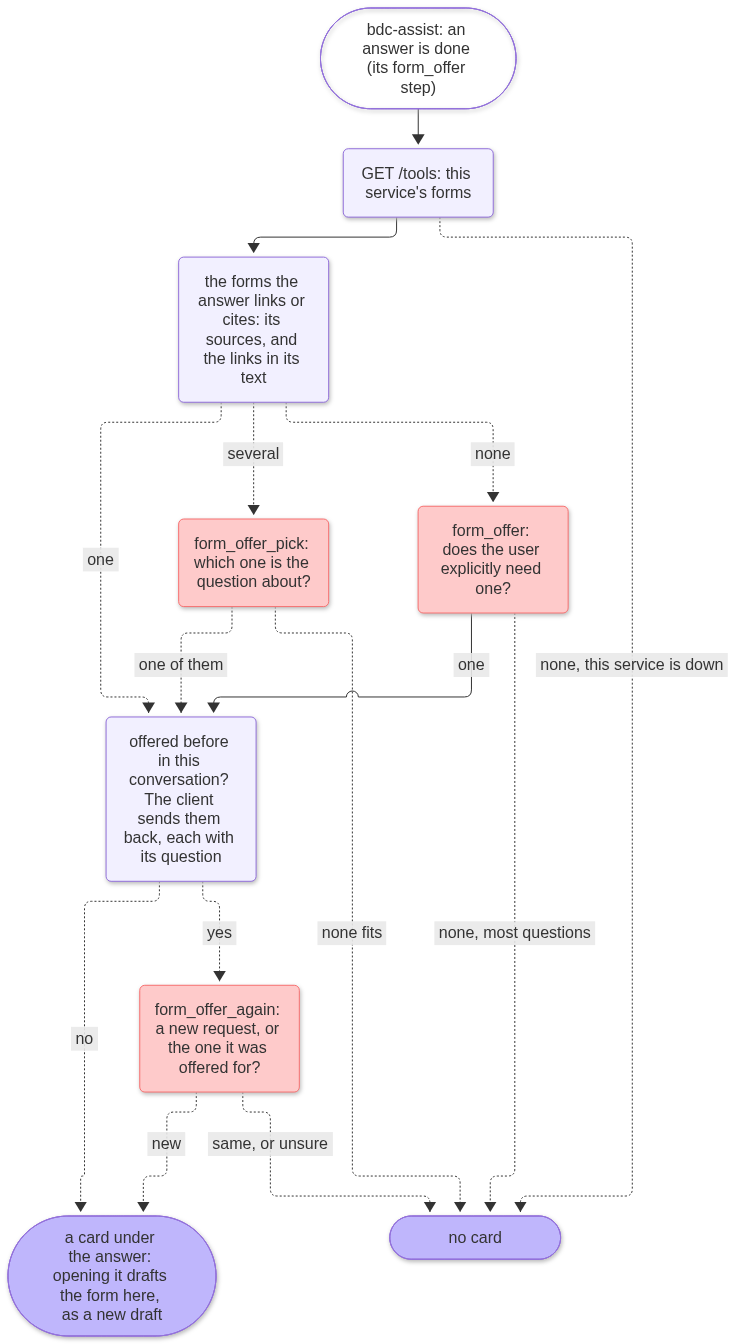
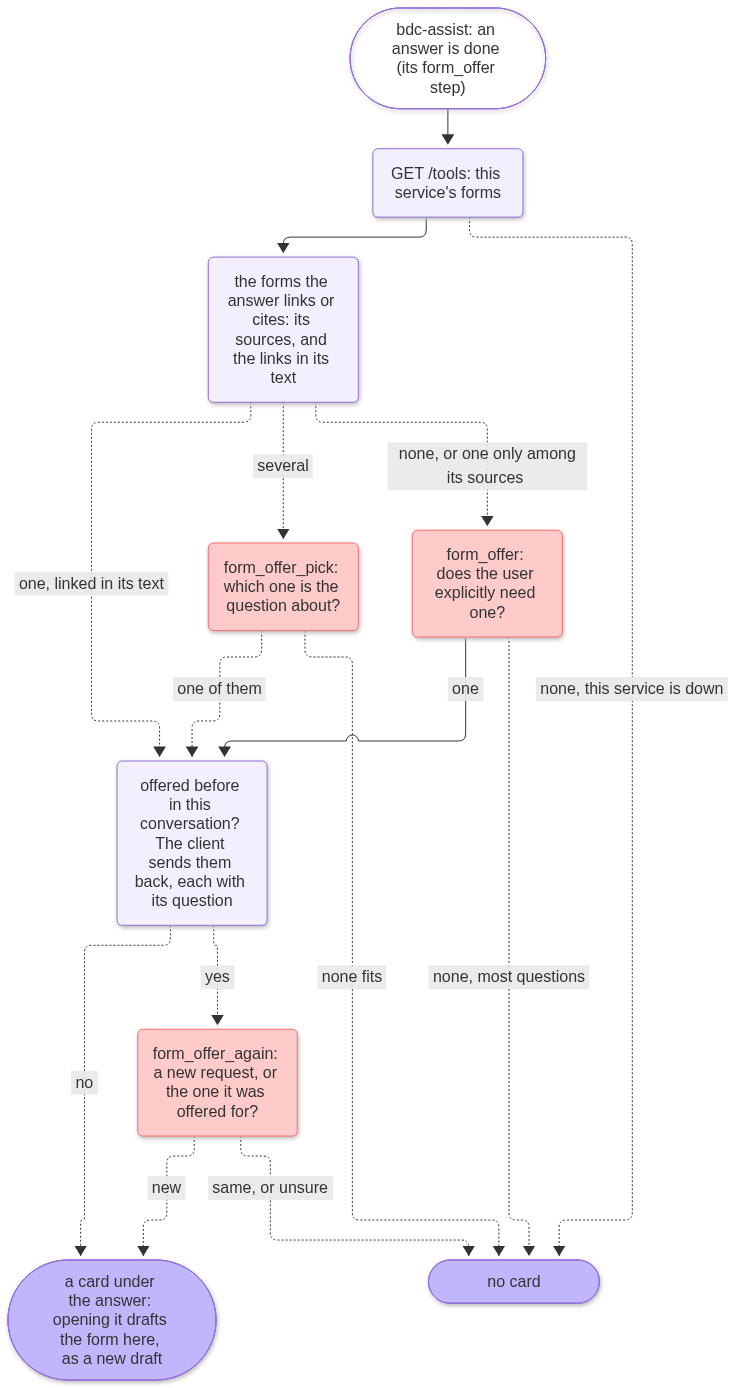
docs: form_offer diagram, a form only among the sources goes to the LLM

diff --git a/docs/form_offer.md b/docs/form_offer.md
@@ -30,9 +30,9 @@ graph TD;
 	start --> forms;
 	forms -. &nbsp;none, this service is down&nbsp; .-> none;
 	forms --> links;
-	links -. &nbsp;one&nbsp; .-> seen;
+	links -. &nbsp;one, linked in its text&nbsp; .-> seen;
 	links -. &nbsp;several&nbsp; .-> pick;
-	links -. &nbsp;none&nbsp; .-> need;
+	links -. &nbsp;none, or one only among its sources&nbsp; .-> need;
 	pick -. &nbsp;one of them&nbsp; .-> seen;
 	pick -. &nbsp;none fits&nbsp; .-> none;
 	need -. &nbsp;one&nbsp; .-> seen;
